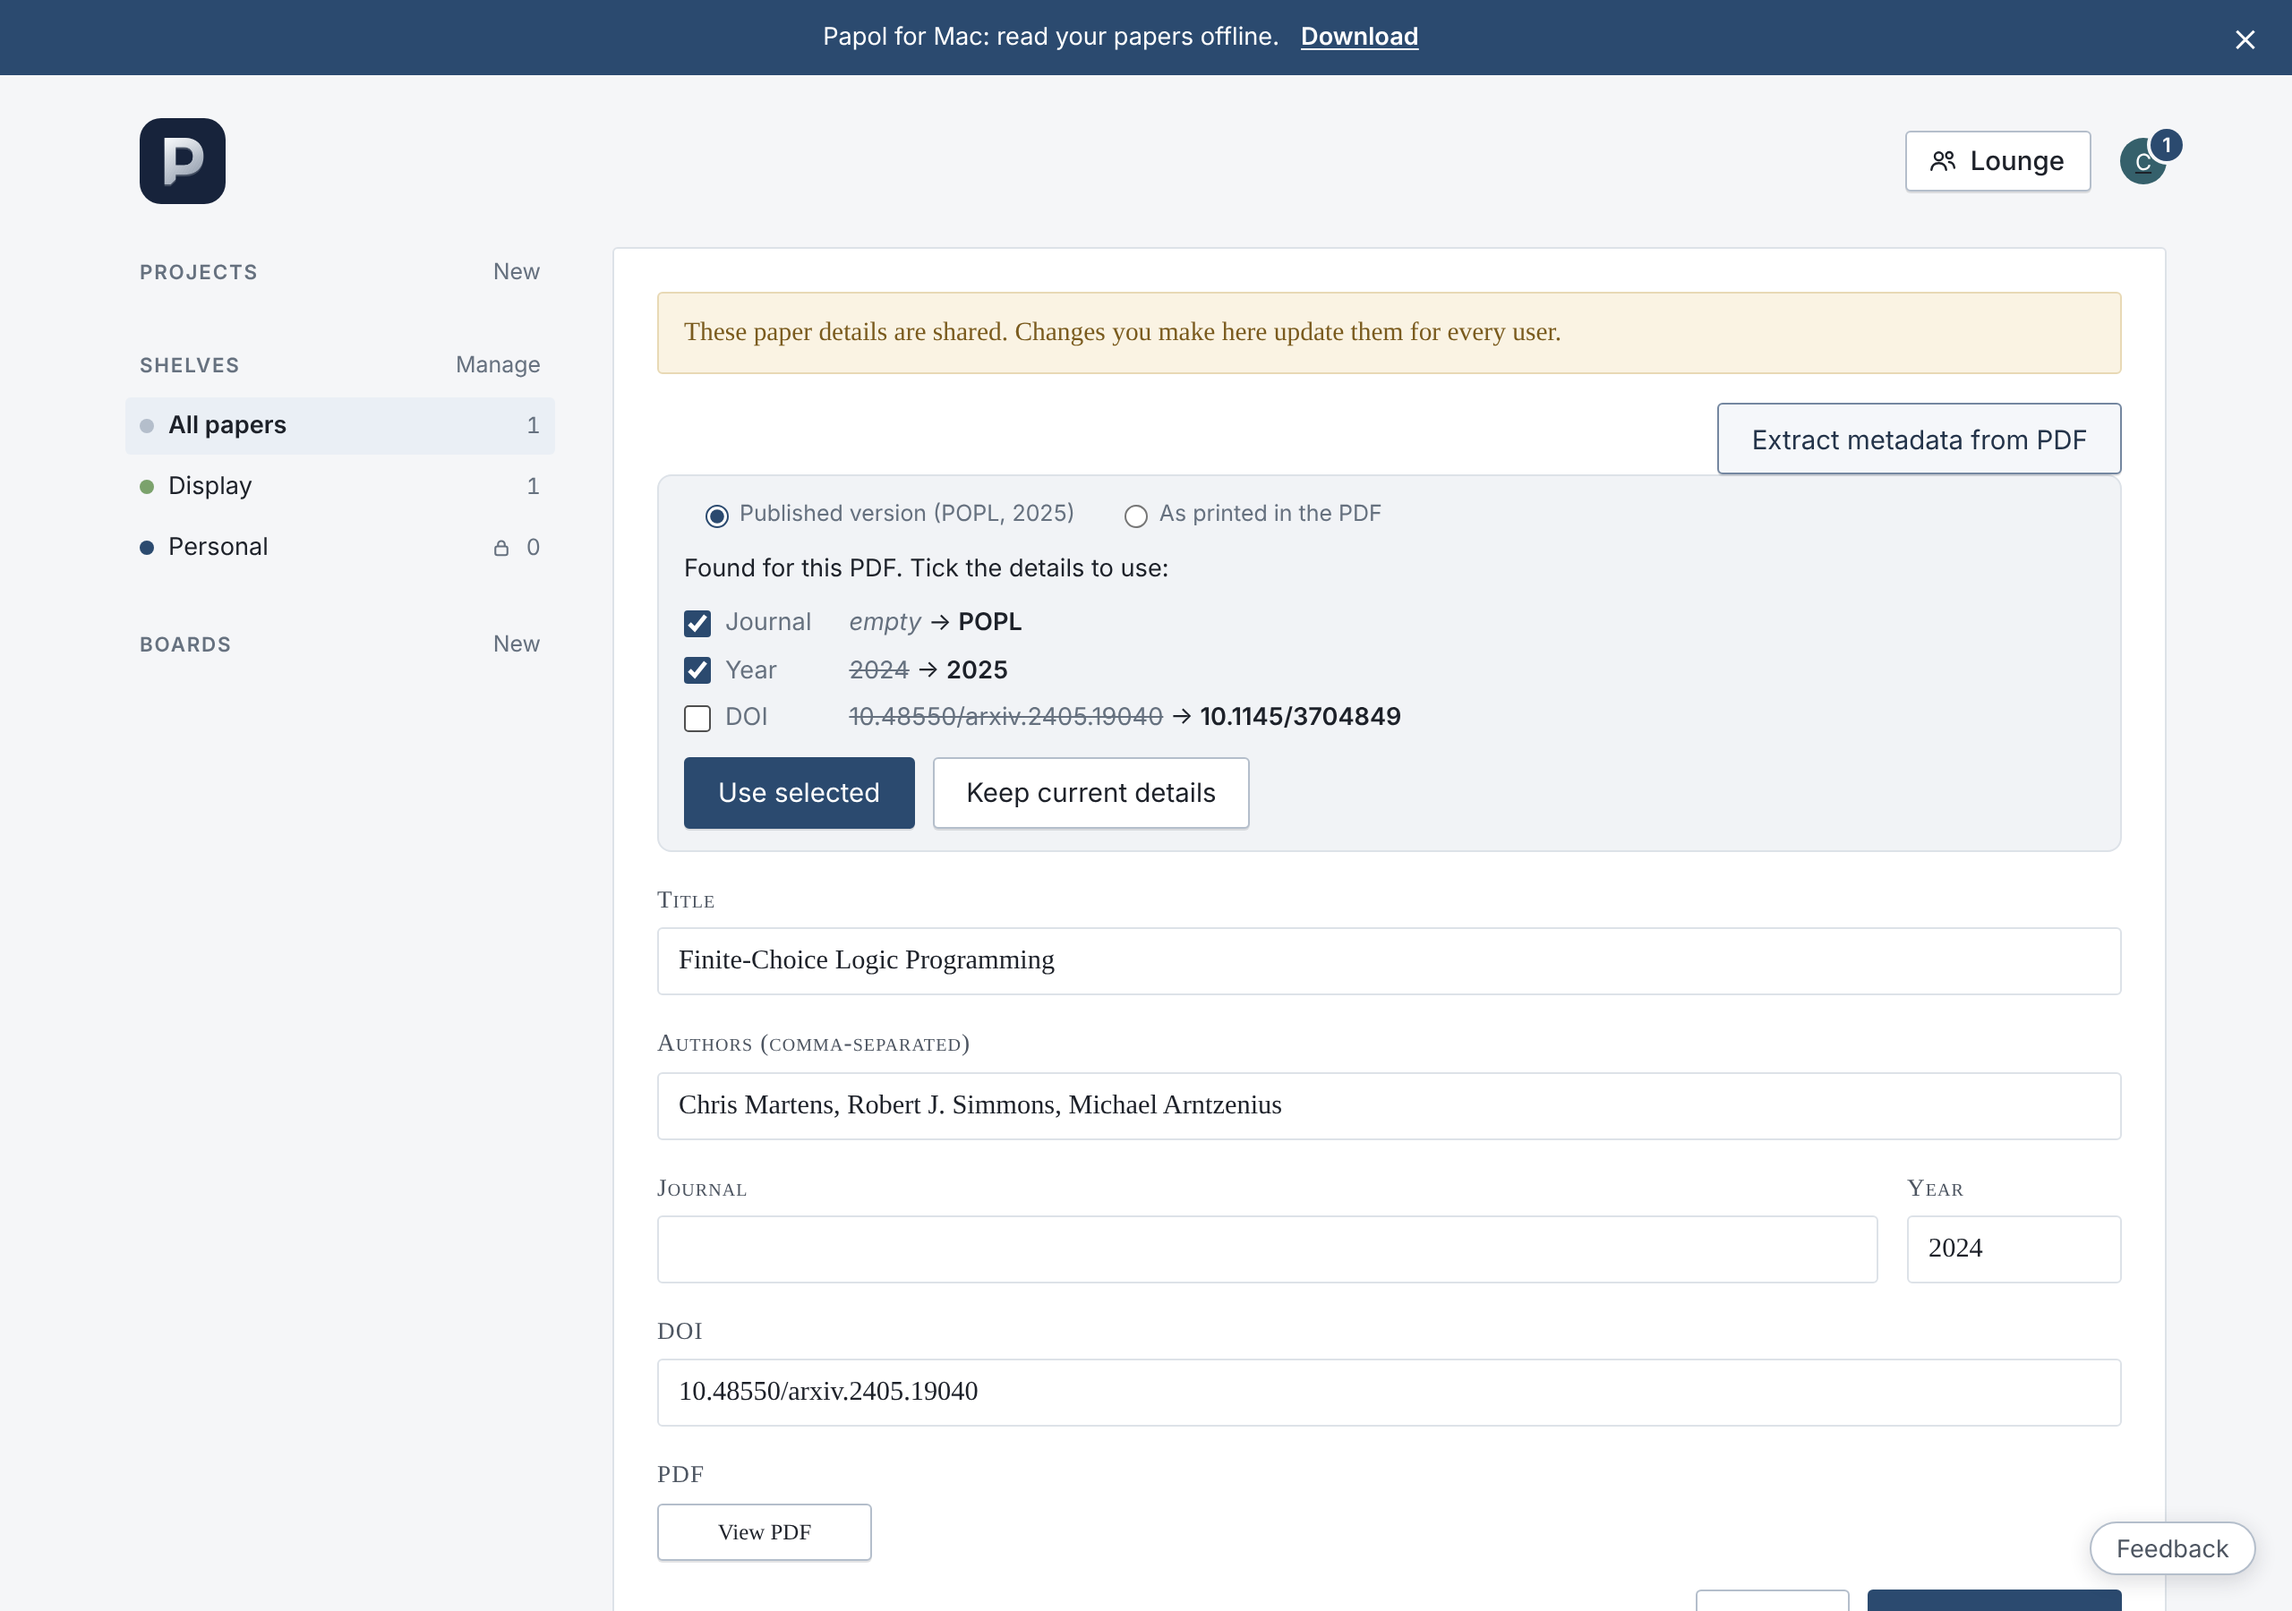
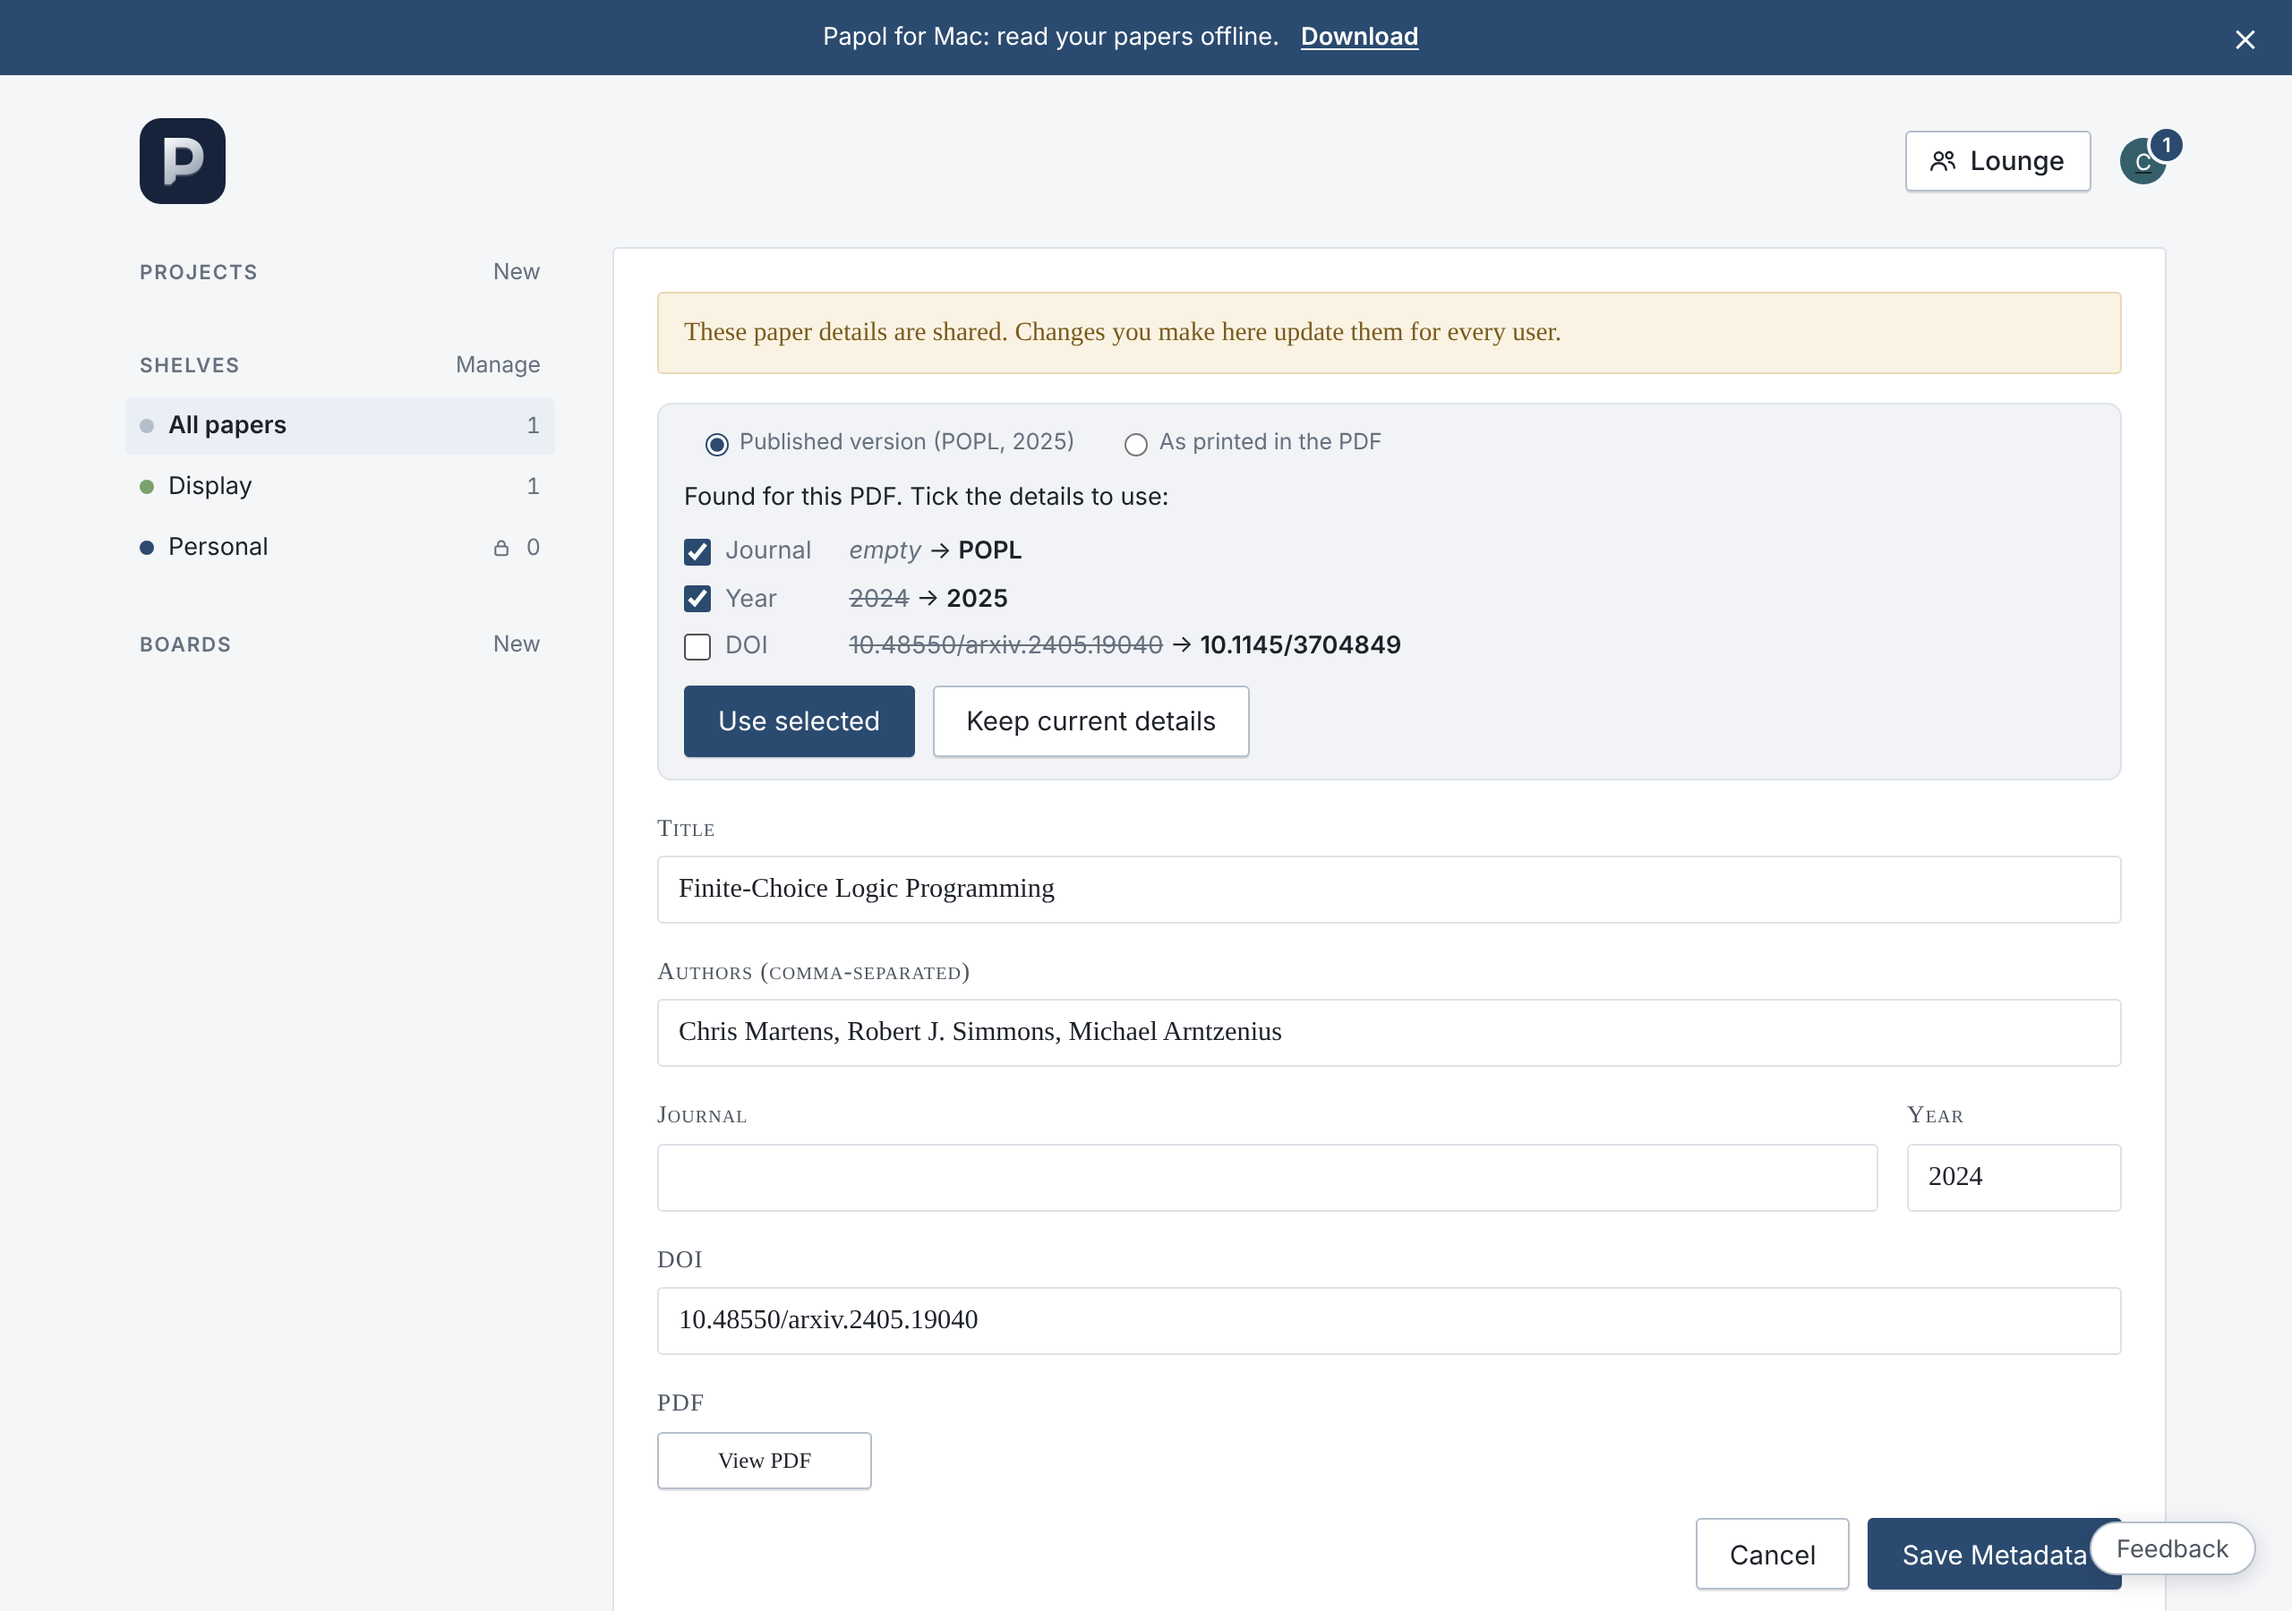
Hide the Extract button while what it found is on offer
Claude-Session: https://claude.ai/code/session_01PQZzMTB5h1b5RY48c8Cgef

diff --git a/frontend/src/components/PaperJacket.jsx b/frontend/src/components/PaperJacket.jsx
@@ -594,16 +594,20 @@ export default function PaperJacket({
             for every user.
           </div>
 
-          <div className="form-actions metadata-extract-action">
-            <button
-              type="button"
-              onClick={handleMetadataExtract}
-              disabled={isExtractingMetadata}
-            >
-              {isExtractingMetadata ? 'Extracting…' : 'Extract metadata from PDF'}
-            </button>
-            {isExtractingMetadata && <Working label={metadataExtractStatus} />}
-          </div>
+          {/* The panel of what was found takes the button's place until
+              the user has answered it. */}
+          {!metadataFound && (
+            <div className="form-actions metadata-extract-action">
+              <button
+                type="button"
+                onClick={handleMetadataExtract}
+                disabled={isExtractingMetadata}
+              >
+                {isExtractingMetadata ? 'Extracting…' : 'Extract metadata from PDF'}
+              </button>
+              {isExtractingMetadata && <Working label={metadataExtractStatus} />}
+            </div>
+          )}
 
           {metadataFound && (
             <div className="metadata-found" role="region" aria-label="Details found in the PDF">
